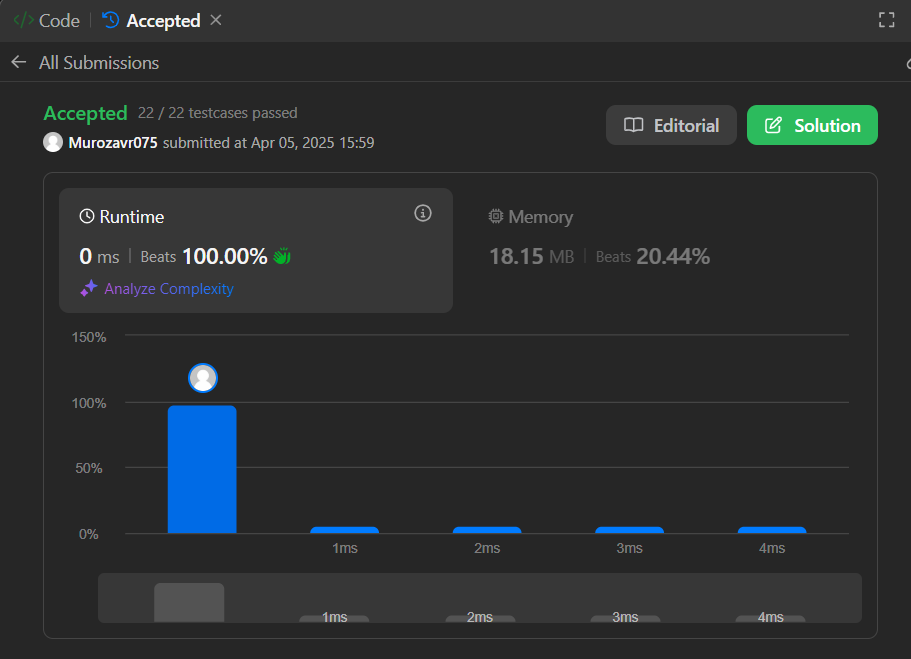
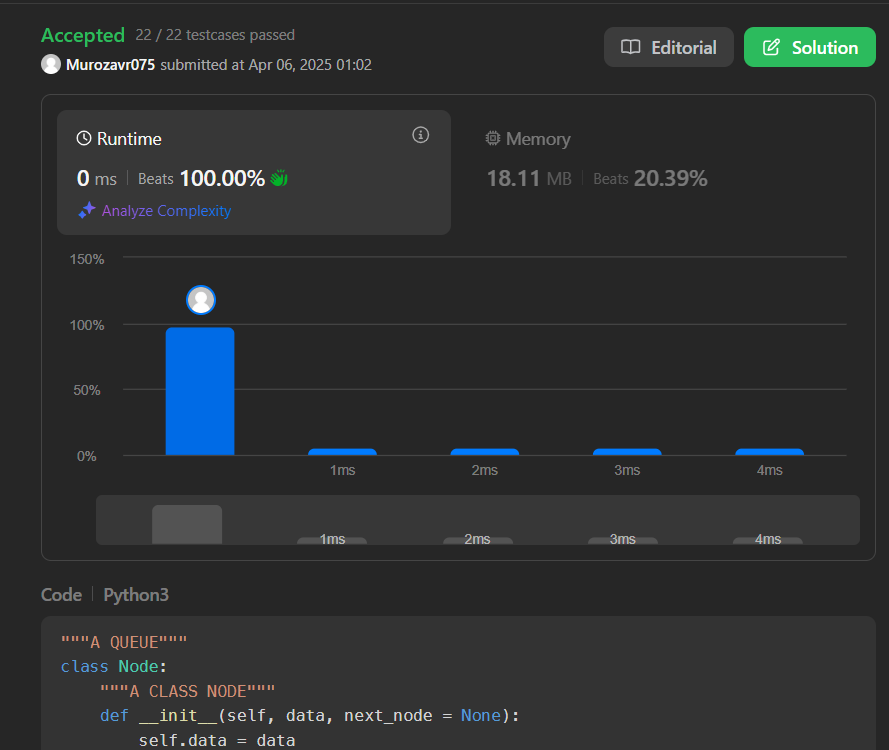
Remade solution 1: with using two stacks (in and out). Appending elem to in-stack and popping from out-stack. Out-stack gets elements from in-stack in reversed order from in-stack

diff --git a/Implement Queue using Stacks/solution.py b/Implement Queue using Stacks/solution.py
@@ -106,48 +106,39 @@ class LinkedStack:
         return string
 
 class MyQueue:
-    """Queue implemented using a single stack"""
+    """Queue implemented using two stacks"""
     def __init__(self):
-        self.stack = LinkedStack()
+        self.in_stack = LinkedStack()
+        self.out_stack = LinkedStack()
 
     def push(self, x: int) -> None:
-        """OUSH METHOD"""
-        self.stack.push(x)
+        """PUSH METHOD"""
+        self.in_stack.push(x)
+
+    def _transfer(self):
+        """TRANSFER helping METHOD"""
+        while not self.in_stack.is_empty():
+            self.out_stack.push(self.in_stack.pop())
 
     def pop(self) -> int:
         """POP METHOD"""
         if self.empty():
             raise IndexError("Pop from empty queue")
-        return self._pop_bottom()
-
-    def _pop_bottom(self):
-        """Helper: FOR POP METHOD"""
-        top = self.stack.pop()
-        if self.stack.is_empty():
-            return top
-        item = self._pop_bottom()
-        self.stack.push(top)
-        return item
+        if self.out_stack.is_empty():
+            self._transfer()
+        return self.out_stack.pop()
 
     def peek(self) -> int:
         """PEEK METHOD"""
         if self.empty():
             raise IndexError("Peek from empty queue")
-        return self._peek_bottom()
-
-    def _peek_bottom(self):
-        """Helper: FOR PEEK METHOD"""
-        top = self.stack.pop()
-        if self.stack.is_empty():
-            self.stack.push(top)
-            return top
-        item = self._peek_bottom()
-        self.stack.push(top)
-        return item
+        if self.out_stack.is_empty():
+            self._transfer()
+        return self.out_stack.peek()
 
     def empty(self) -> bool:
         """EMPTY METHOD"""
-        return self.stack.is_empty()
+        return self.in_stack.is_empty() and self.out_stack.is_empty()
 
     def __len__(self):
-        return len(self.stack)
+        return len(self.in_stack) + len(self.out_stack)
